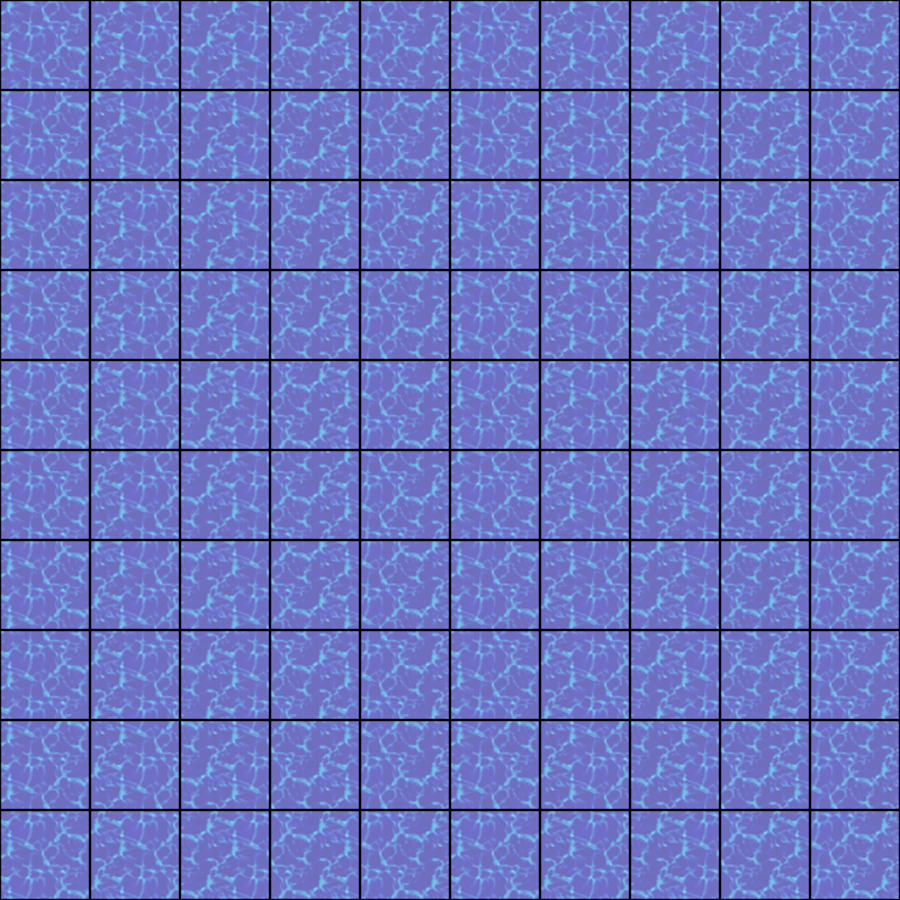
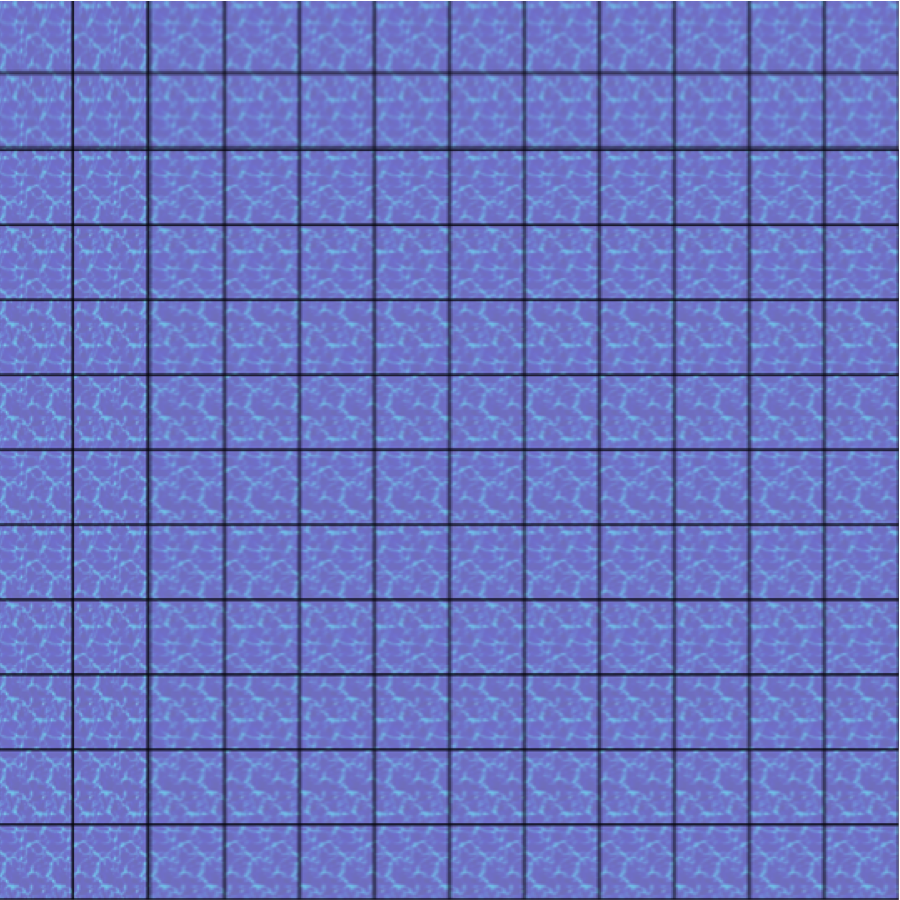
fix grid
fix image and variable in Board.java

diff --git a/core/src/com/meh2481/battleship/Board.java b/core/src/com/meh2481/battleship/Board.java
@@ -16,7 +16,7 @@ import java.awt.*;
 public class Board
 {
     public static final int BOARD_SIZE = 10;    //X and Y size of the board, in tiles 10
-    public static final int TILE_SIZE = 90;     //Size of each tile, in pixels 64
+    public static final int TILE_SIZE = 75;     //Size of each tile, in pixels 64
 
     private Texture m_txBoardBg;    //Texture for the board background
     private Texture m_txMissImage;  //Image to draw when we've guessed somewhere and missed
